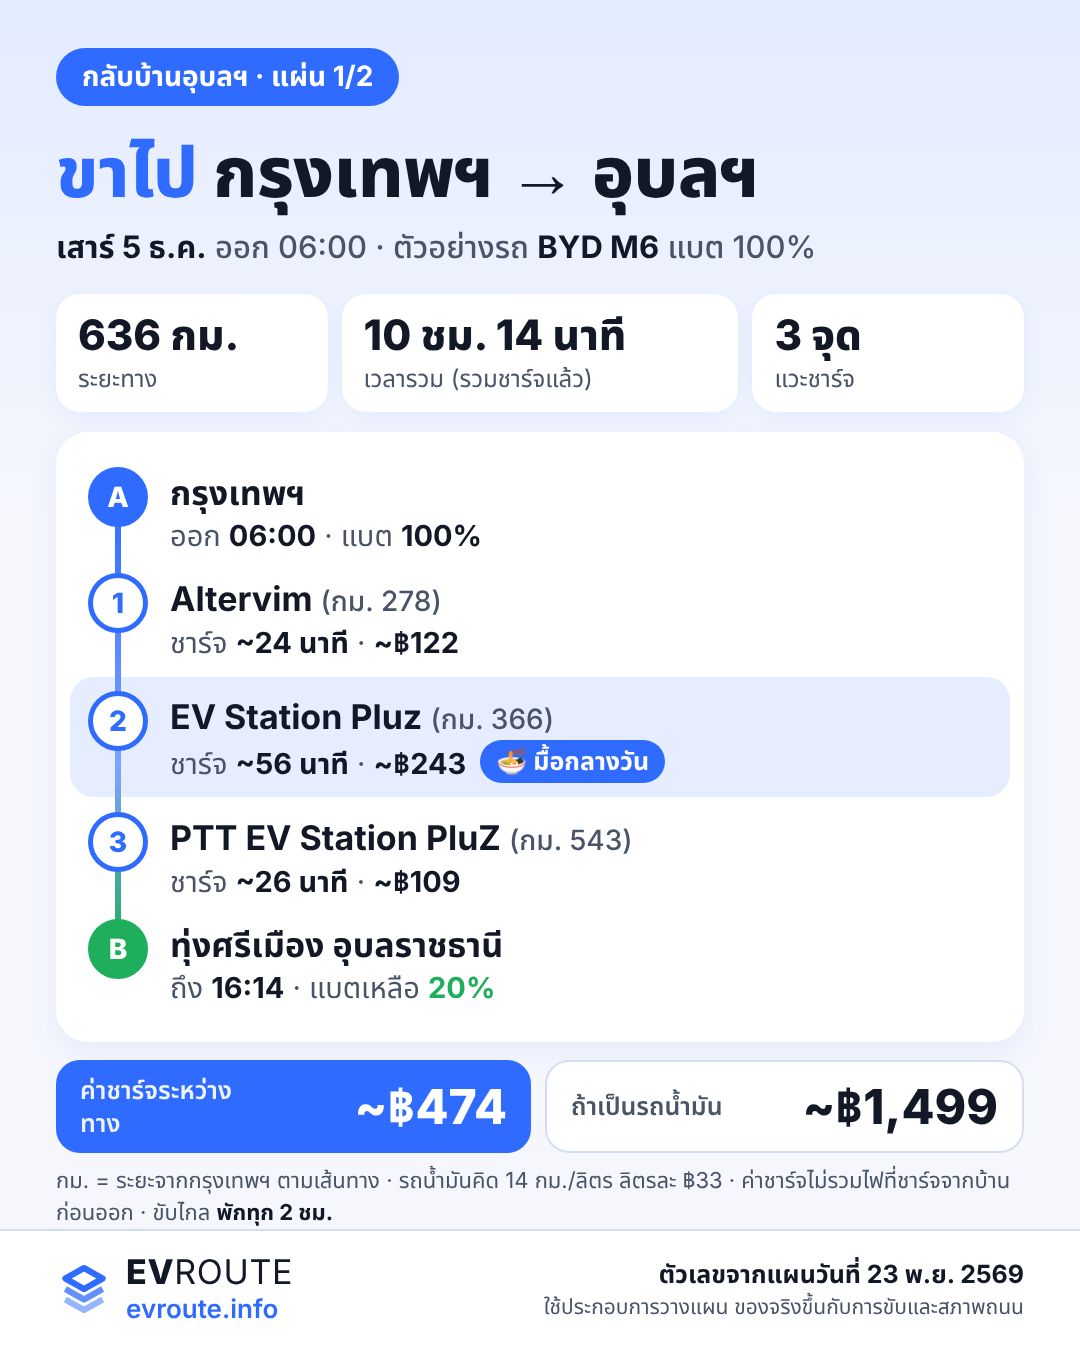
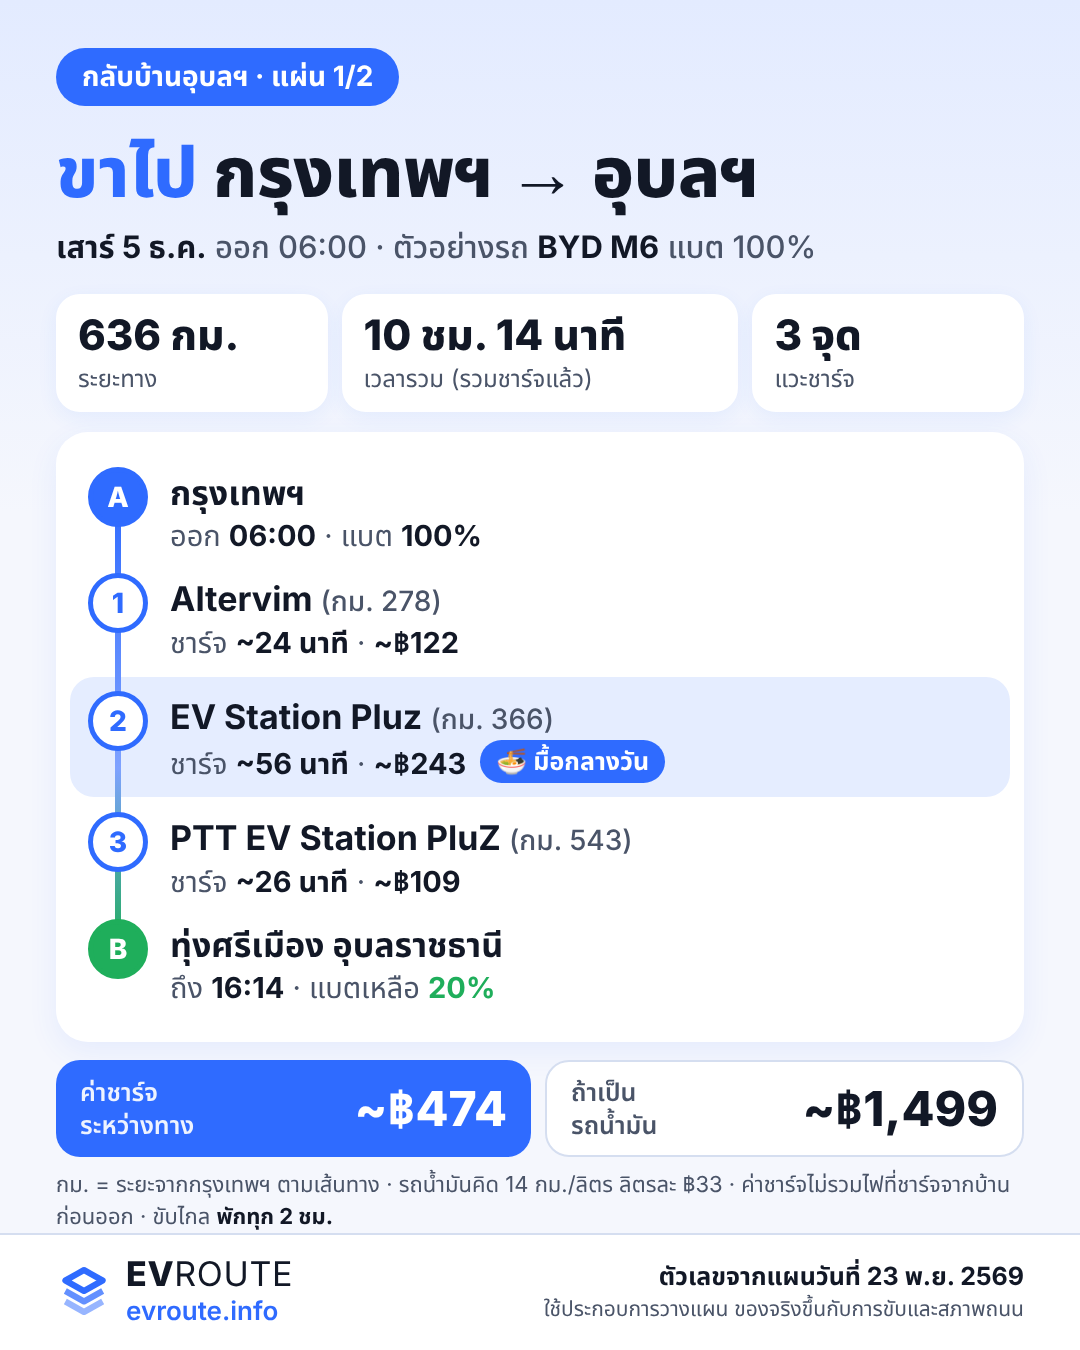
Long-weekend campaign: images in progress (visual-designer)
Claude-Session: https://claude.ai/code/session_01LGo3dKAudiWU9QkRQhtUip

Changed region(s): [[0.0306, 0.7778, 0.9472, 0.9956], [0.5194, 0.9333, 0.9472, 0.9956], [0.1833, 0.7778, 0.2139, 0.8089]]

diff --git a/marketing/2026-12-longweekend/images/src/G3-2-ubon-back.html b/marketing/2026-12-longweekend/images/src/G3-2-ubon-back.html
@@ -1,0 +1,39 @@
+<!doctype html><html lang="th"><head><meta charset="utf-8"><title>G3 แผ่น 2 · ขากลับ R5</title>
+<link rel="stylesheet" href="base.css"><script src="base.js" defer></script></head><body>
+<!-- ตัวเลขทั้งหมดจาก routes.md · R5 · วางแผน 23 พ.ย. 2569 15:00 · ค่าไฟ R5 เป็นราคาวันธรรมดา ห้ามเรียก Off-Peak -->
+<div class="canvas">
+  <div class="pill">กลับบ้านอุบลฯ · แผ่น 2/2</div>
+  <h1><span class="accent">ขากลับ</span> อุบลฯ → กรุงเทพฯ</h1>
+  <p class="sub"><b>จันทร์ 7 ธ.ค.</b> ออก 08:00 · ตัวอย่างรถ <b>BYD M6</b> แบต 80%</p>
+
+  <div class="stats">
+    <div class="stat"><b>637 กม.</b><span>ระยะทาง</span></div>
+    <div class="stat" style="flex:1.55"><b>10 ชม. 38 นาที</b><span>เวลารวม (รวมชาร์จแล้ว)</span></div>
+    <div class="stat"><b>3 จุด</b><span>แวะชาร์จ</span></div>
+  </div>
+
+  <div class="card" style="margin-top:20px">
+    <ol class="route">
+      <li class="start"><div class="dot">A</div><div><div class="nm">ทุ่งศรีเมือง อุบลราชธานี</div><div class="meta">ออก <b>08:00</b> · แบต <b>80%</b></div></div></li>
+      <li><div class="dot">1</div><div><div class="nm">PEA VOLTA บางจาก ขุขันธ์</div><div class="meta">ชาร์จ <b>~34 นาที</b> · <b>~฿138</b></div></div></li>
+      <li class="meal"><div class="dot">2</div><div><div class="nm">สถานีชาร์จ EleXA <span class="km">(กม. 297)</span></div><div class="meta">ชาร์จ <b>~48 นาที</b> · <b>~฿263</b> <span class="badge">🍜 มื้อกลางวัน</span></div></div></li>
+      <li><div class="dot">3</div><div><div class="nm">PTT EV Station PluZ <span class="km">(กม. 459)</span></div><div class="meta">ชาร์จ <b>~49 นาที</b> · <b>~฿265</b></div></div></li>
+      <li class="end"><div class="dot">B</div><div><div class="nm">กรุงเทพฯ</div><div class="meta">ถึง <b>18:38</b> · แบตเหลือ <b class="g">21%</b></div></div></li>
+    </ol>
+  </div>
+
+  <div class="compare">
+    <div class="cmp ev"><small>ค่าชาร์จ<br>ระหว่างทาง</small><b>~฿666</b></div>
+    <div class="cmp gas"><small>ถ้าเป็น<br>รถน้ำมัน</small><b>~฿1,502</b></div>
+  </div>
+  <p class="fine">ค่าไฟประมาณ แอปคิดวันจันทร์เป็นราคาวันธรรมดา · กม. = ระยะจากอุบลฯ ตามเส้นทาง · รถน้ำมันคิด 14 กม./ลิตร ลิตรละ ฿33 · ค่าชาร์จไม่รวมไฟที่ชาร์จก่อนออก · ขับไกล <b>พักทุก 2 ชม.</b></p>
+
+  <footer class="foot">
+    <div class="brand">
+      <svg viewBox="0 0 24 24" aria-hidden="true"><path d="M4 7.5 12 3l8 4.5-8 4.5z"/><path d="M4 12l8 4.5 8-4.5" opacity=".75"/><path d="M4 16.5 12 21l8-4.5" opacity=".5"/></svg>
+      <div><div class="name"><b>EV</b>ROUTE</div><div class="url">evroute.info</div></div>
+    </div>
+    <div class="stamp"><b>ตัวเลขจากแผนวันที่ 23 พ.ย. 2569</b><span>ใช้ประกอบการวางแผน ของจริงขึ้นกับการขับและสภาพถนน</span></div>
+  </footer>
+</div>
+</body></html>

diff --git a/marketing/2026-12-longweekend/images/src/G3-1-ubon-go.html b/marketing/2026-12-longweekend/images/src/G3-1-ubon-go.html
@@ -23,8 +23,8 @@
   </div>
 
   <div class="compare">
-    <div class="cmp ev"><small>ค่าชาร์จระหว่างทาง</small><b>~฿474</b></div>
-    <div class="cmp gas"><small>ถ้าเป็นรถน้ำมัน</small><b>~฿1,499</b></div>
+    <div class="cmp ev"><small>ค่าชาร์จ<br>ระหว่างทาง</small><b>~฿474</b></div>
+    <div class="cmp gas"><small>ถ้าเป็น<br>รถน้ำมัน</small><b>~฿1,499</b></div>
   </div>
   <p class="fine">กม. = ระยะจากกรุงเทพฯ ตามเส้นทาง · รถน้ำมันคิด 14 กม./ลิตร ลิตรละ ฿33 · ค่าชาร์จไม่รวมไฟที่ชาร์จจากบ้านก่อนออก · ขับไกล <b>พักทุก 2 ชม.</b></p>
   <footer class="foot">

diff --git a/marketing/2026-12-longweekend/images/src/base.css b/marketing/2026-12-longweekend/images/src/base.css
@@ -67,7 +67,7 @@ h1 .accent{color:var(--blue)}
 .warn b{color:#8a4f00}
 
 /* footer: logo + evroute.info + plan date */
-.foot{margin:auto -56px 0;padding:22px 56px 26px;display:flex;align-items:center;justify-content:space-between;gap:24px;
+.foot{margin:auto -56px 0;padding:20px 56px 22px;display:flex;align-items:center;justify-content:space-between;gap:24px;
   background:#fff;border-top:2px solid var(--line)}
 .story .foot{margin-bottom:0}
 .brand{display:flex;align-items:center;gap:14px;flex:none}
